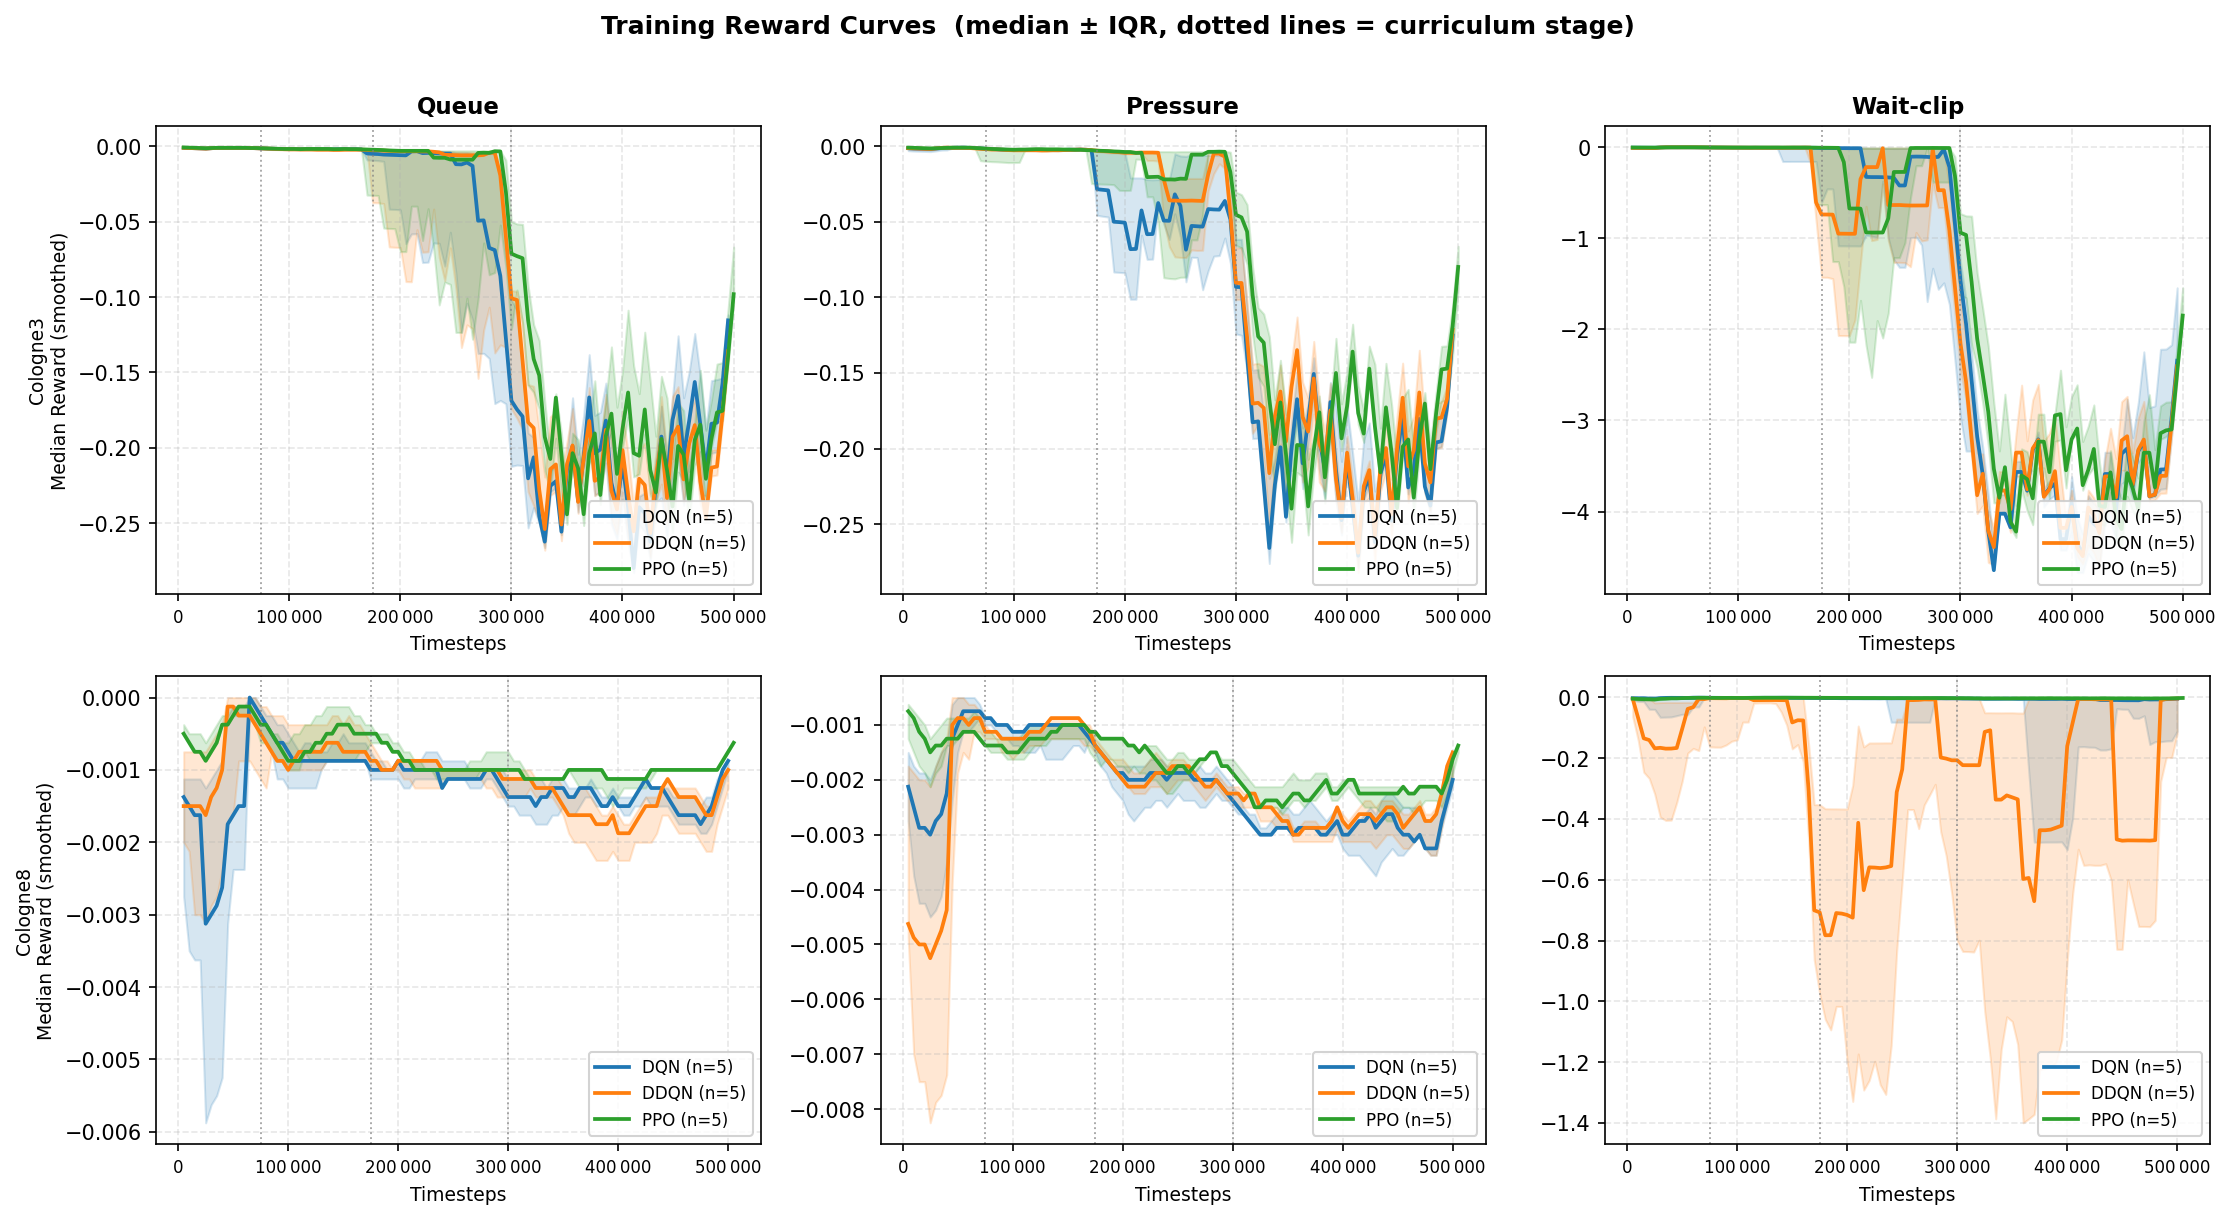
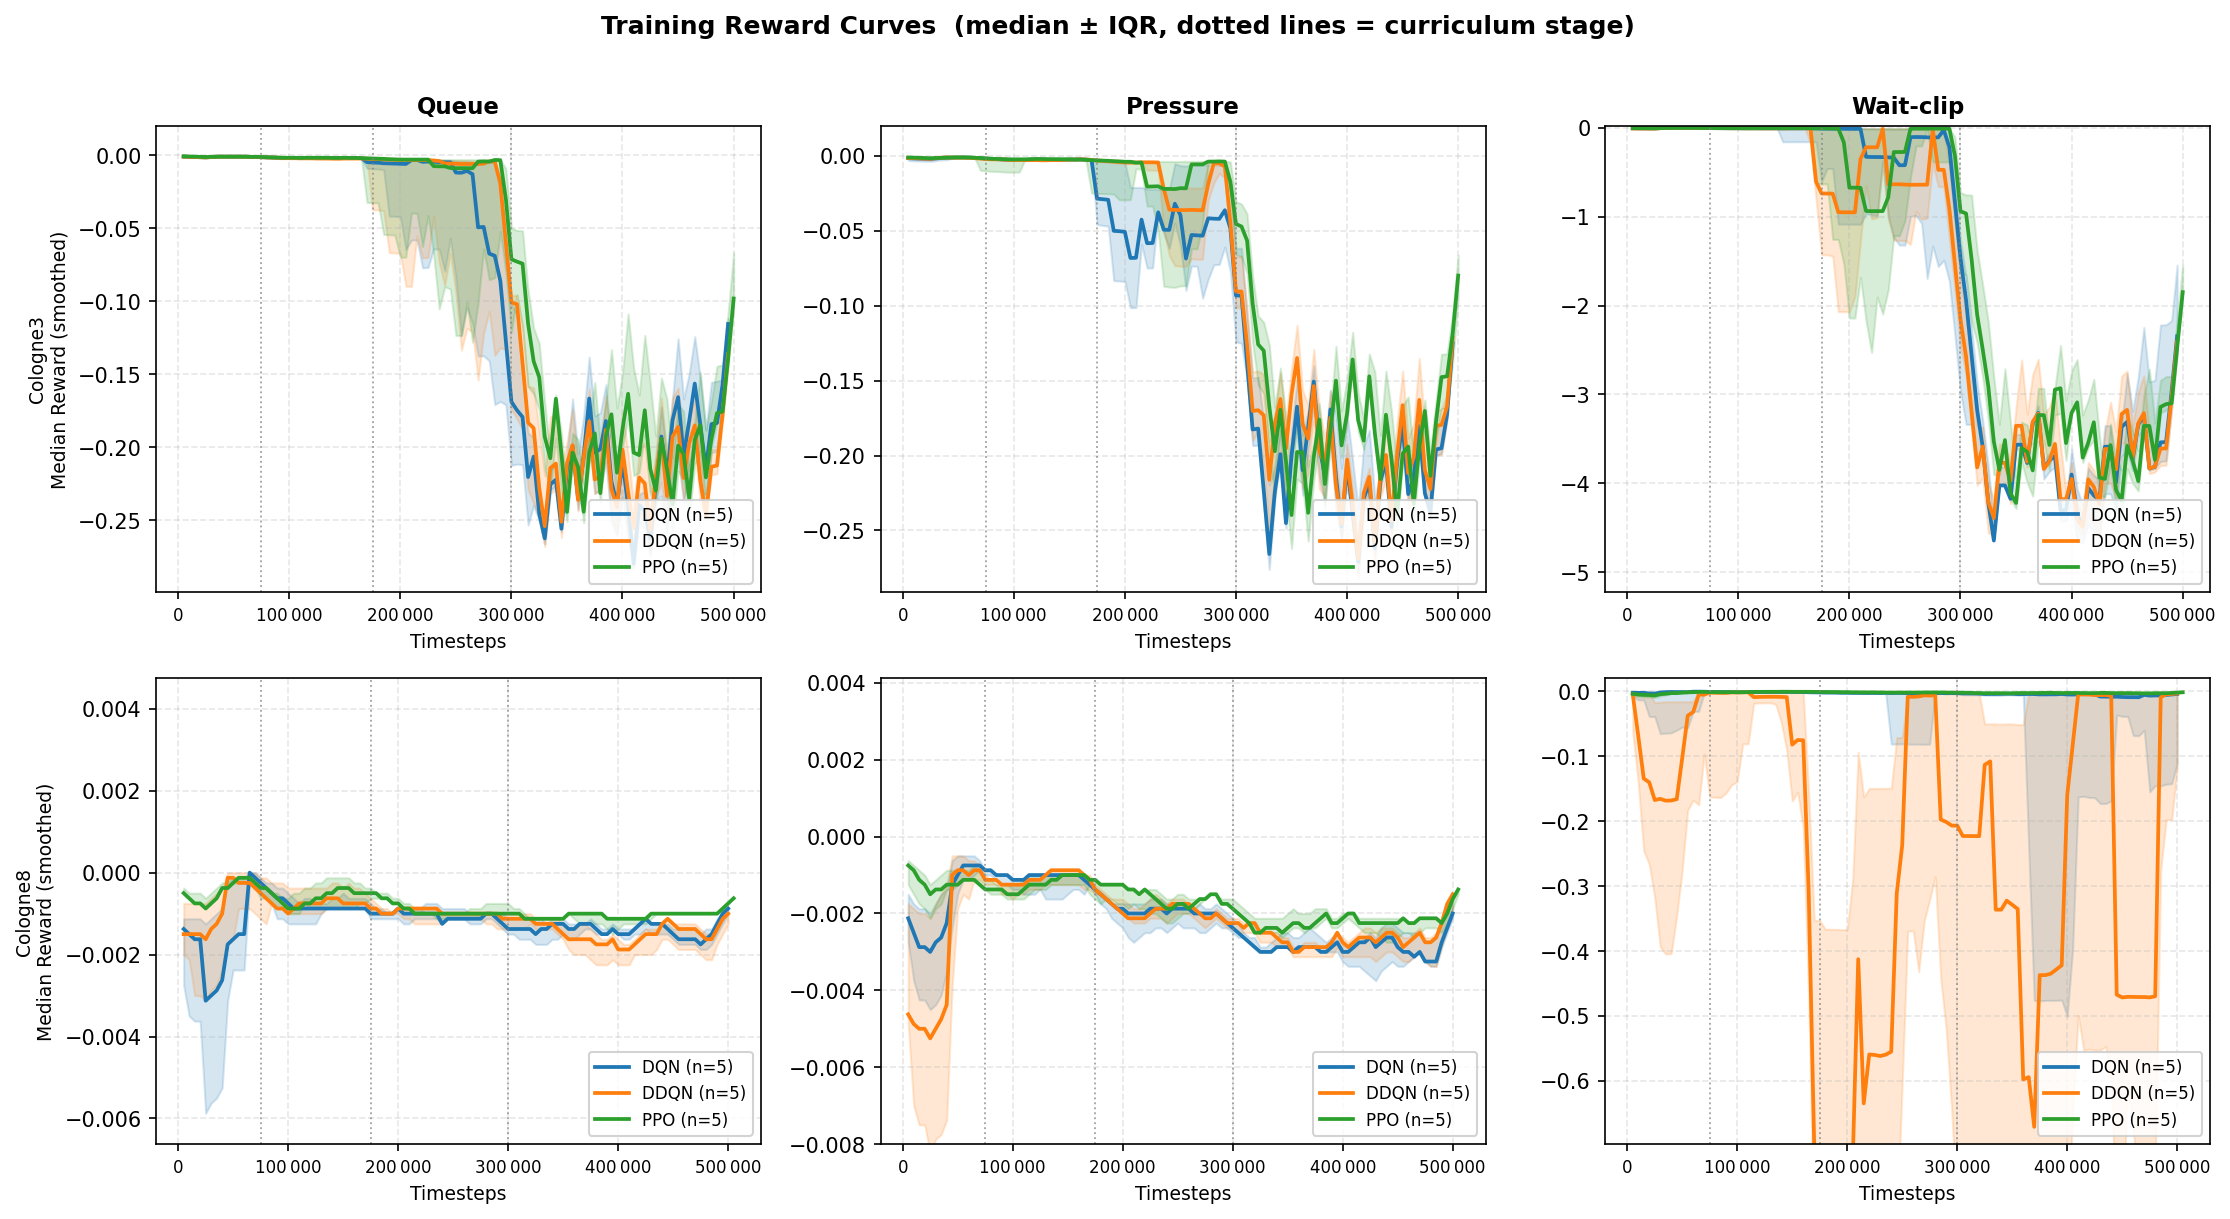
plot learning curves

diff --git a/plot_learning_curves.py b/plot_learning_curves.py
@@ -159,6 +159,17 @@ def plot_panel(ax, log_dir: Path, reward: str, smooth_w: int,
     )
     ax.tick_params(axis="x", labelsize=8)
 
+    # Clip y-axis theo p5-p95 cua duong median, tranh 1 algo keo toan bo scale
+    lines_data = [line.get_ydata() for line in ax.get_lines()
+                  if len(line.get_ydata()) > 1]
+    if lines_data:
+        all_y = np.concatenate(lines_data)
+        all_y = all_y[np.isfinite(all_y)]
+        if len(all_y):
+            p5, p95 = np.percentile(all_y, 5), np.percentile(all_y, 95)
+            margin  = max(abs(p95 - p5) * 0.25, 0.005)
+            ax.set_ylim(bottom=p5 - margin, top=min(p95 + margin, 0.02))
+
     if any_run:
         ax.legend(fontsize=8, loc="lower right", framealpha=0.85)
 
